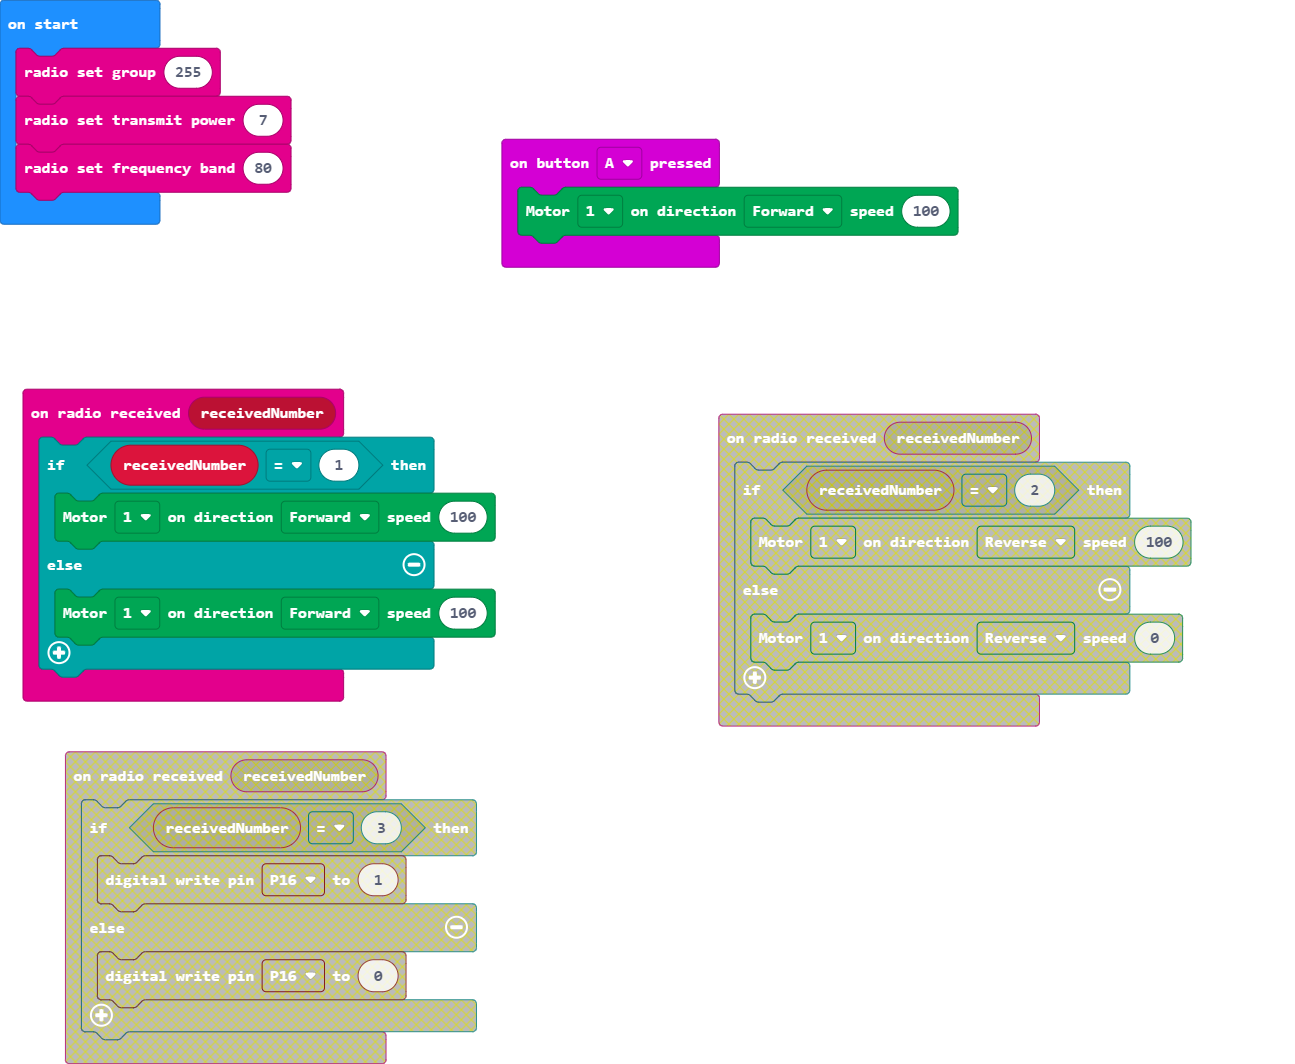
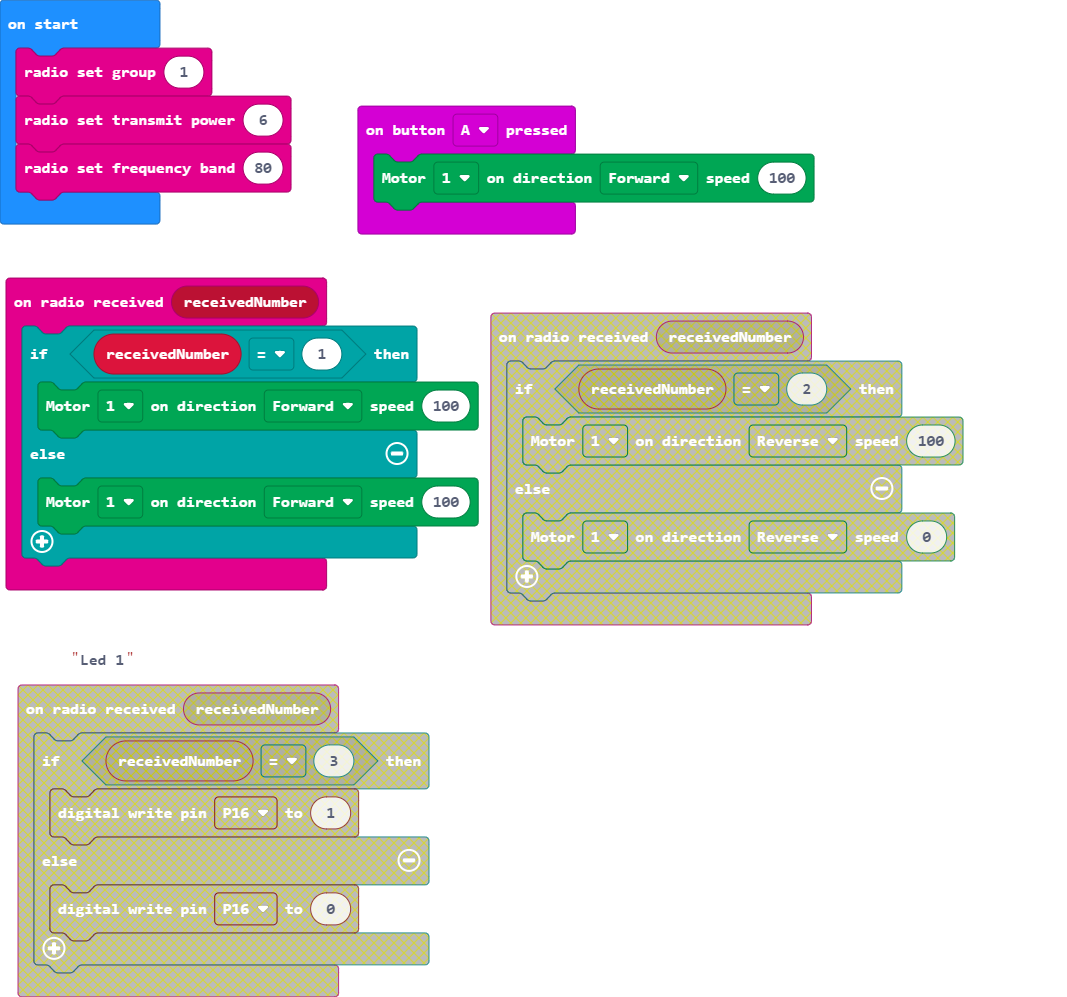
Update pxt.json, main.blocks, main.ts

diff --git a/main.ts b/main.ts
@@ -8,6 +8,6 @@ radio.onReceivedNumber(function (receivedNumber) {
 input.onButtonPressed(Button.A, function () {
     Kitronik_Robotics_Board.motorOn(Kitronik_Robotics_Board.Motors.Motor1, Kitronik_Robotics_Board.MotorDirection.Forward, 100)
 })
-radio.setGroup(255)
-radio.setTransmitPower(7)
+radio.setGroup(1)
+radio.setTransmitPower(6)
 radio.setFrequencyBand(80)
